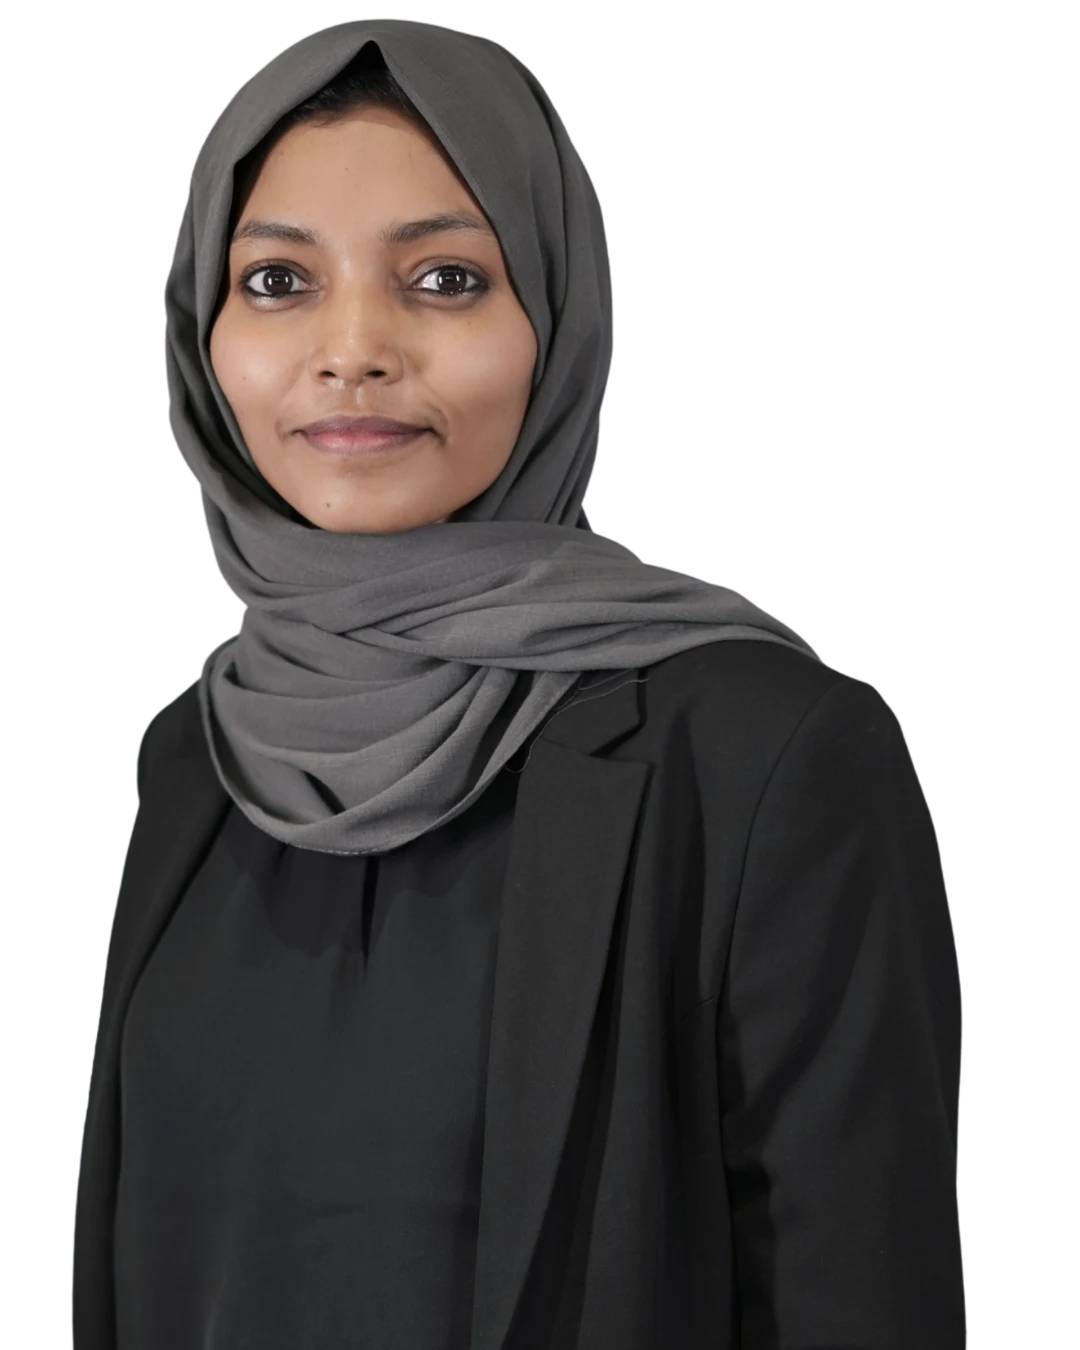
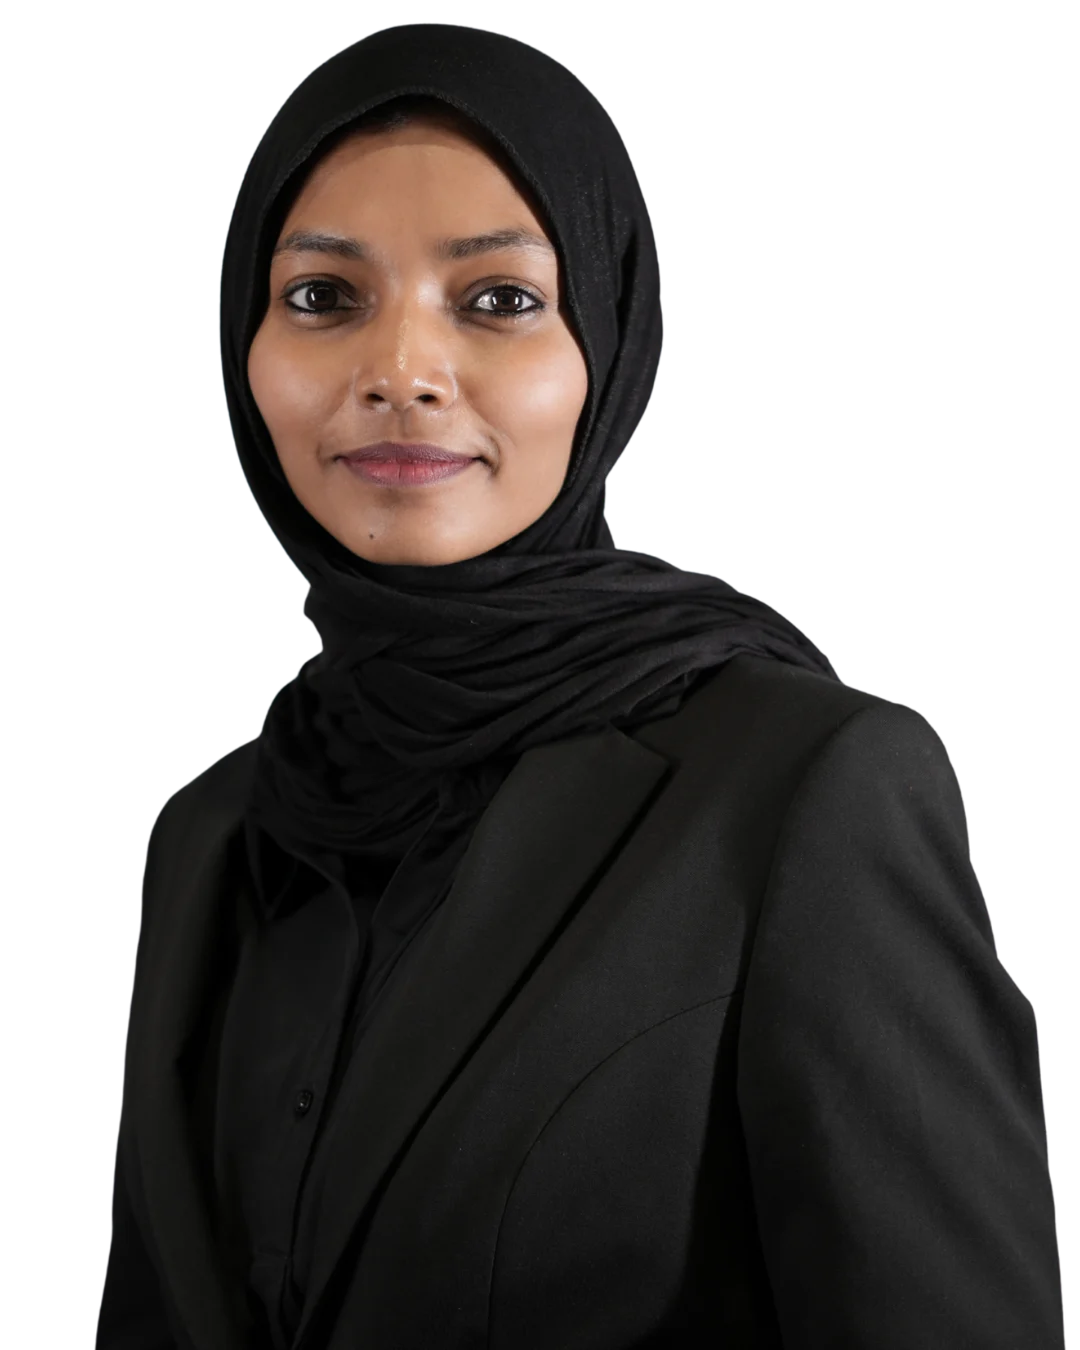
Our Team page completed

diff --git a/src/components/Testimonials.jsx b/src/components/Testimonials.jsx
@@ -1,0 +1,93 @@
+import React, { useEffect, useRef, useState } from "react";
+
+const fetchChannelVideos = async () => {
+  const url = `https://www.googleapis.com/youtube/v3/search?key=${
+    import.meta.env.VITE_YOUTUBE_API_KEY
+  }&channelId=${
+    import.meta.env.VITE_CHANNEL_ID
+  }&part=snippet,id&order=date&maxResults=10`;
+  const response = await fetch(url);
+  const data = await response.json();
+  return data.items.filter((item) => item.id.kind === "youtube#video");
+};
+
+export default function Testimonials() {
+  const [videos, setVideos] = useState([]);
+  const [activeIndex, setActiveIndex] = useState(0);
+  const scrollRef = useRef(null);
+
+  useEffect(() => {
+    fetchChannelVideos().then(setVideos);
+  }, []);
+
+  const scrollToIndex = (index) => {
+    if (!scrollRef.current) return;
+    const container = scrollRef.current;
+    const child = container.children[index];
+    if (child) {
+      child.scrollIntoView({ behavior: "smooth", inline: "start" });
+      setActiveIndex(index);
+    }
+  };
+
+  const handleArrow = (direction) => {
+    let nextIndex = activeIndex + (direction === "right" ? 1 : -1);
+    if (nextIndex < 0) nextIndex = 0;
+    if (nextIndex >= videos.length) nextIndex = videos.length - 1;
+    scrollToIndex(nextIndex);
+  };
+
+  if (videos.length === 0) return null;
+
+  return (
+    <section className="w-full bg-black text-white py-8 relative overflow-hidden">
+      <h2 className="text-xl font-bold mb-4 px-4">Latest Videos</h2>
+
+      {/* Scroll Arrows */}
+      <button
+        onClick={() => handleArrow("left")}
+        className="absolute left-2 top-1/2 -translate-y-1/2 z-10 bg-white text-black p-2 rounded-full"
+      >
+        &#8592;
+      </button>
+      <button
+        onClick={() => handleArrow("right")}
+        className="absolute right-2 top-1/2 -translate-y-1/2 z-10 bg-white text-black p-2 rounded-full"
+      >
+        &#8594;
+      </button>
+
+      <div
+        ref={scrollRef}
+        className="flex gap-4 px-4 overflow-x-hidden overflow-y-hidden snap-x snap-mandatory"
+      >
+        {videos.map((video, index) => (
+          <div
+            key={video.id.videoId}
+            className="snap-start flex-shrink-0 transition-all duration-500"
+            style={{
+              width: index === activeIndex ? "500px" : "250px",
+              height: "300px",
+            }}
+          >
+            <a
+              href={`https://www.youtube.com/watch?v=${video.id.videoId}`}
+              target="_blank"
+              rel="noopener noreferrer"
+              className="block w-full h-full rounded-lg overflow-hidden"
+            >
+              <img
+                src={video.snippet.thumbnails.high.url}
+                alt={video.snippet.title}
+                className="w-full h-full object-cover"
+              />
+            </a>
+            <h3 className="text-sm font-semibold mt-2 line-clamp-2">
+              {video.snippet.title}
+            </h3>
+          </div>
+        ))}
+      </div>
+    </section>
+  );
+}

diff --git a/src/components/YoutubeVideos.jsx b/src/components/YoutubeVideos.jsx
@@ -34,8 +34,18 @@ export default function LatestVideos() {
   const visibleOthers = isMobile ? others.slice(0, 4) : others;
 
   return (
-    <div className="container mx-auto p-4 text-white">
-      <h2 className="text-xl font-bold mb-4">Latest Videos</h2>
+    <div className="container mx-auto p-4 text-white">      
+<div className="flex items-center justify-between my-6">
+  <h2 className="text-xl font-bold">Latest Videos</h2>
+  <a
+    href={`https://www.youtube.com/channel/${import.meta.env.VITE_CHANNEL_ID}?sub_confirmation=1`}
+    target="_blank"
+    rel="noopener noreferrer"
+    className="px-6 py-3 bg-red-600 hover:bg-red-700 text-white font-bold rounded-lg shadow-md transition duration-300"
+  >
+    Subscribe
+  </a>
+</div>
 
       {/* Fullscreen latest video */}
       <div className="mb-6 w-full">
@@ -59,7 +69,7 @@ export default function LatestVideos() {
         {visibleOthers.map((video) => (
           <div
             key={video.id.videoId}
-            className="bg-[#3f0000] rounded-lg shadow overflow-hidden flex flex-col"
+            className="rounded-lg shadow overflow-hidden flex flex-col"
           >
             <a
               href={`https://www.youtube.com/watch?v=${video.id.videoId}`}
@@ -81,6 +91,17 @@ export default function LatestVideos() {
           </div>
         ))}
       </div>
+      <div className="flex justify-center my-6">
+  <a
+    href={`https://www.youtube.com/channel/${import.meta.env.VITE_CHANNEL_ID}?sub_confirmation=1`}
+    target="_blank"
+    rel="noopener noreferrer"
+    className="px-6 py-3 bg-red-600 hover:bg-red-700 text-white font-bold rounded-lg shadow-md transition duration-300"
+  >
+    Subscribe
+  </a>
+</div>
+
     </div>
   );
 }

diff --git a/src/components/TeamSection.jsx b/src/components/TeamSection.jsx
@@ -38,14 +38,21 @@ const teamMembers = [
     hoverImage: "/assets/elizebath.webp",
   },
   {
-    name: "Haridas",
+    name: "Haridas P M",
     link: "#",
     role: "Graphics Designer",
     image: "/assets/haridas pm.webp",
     hoverImage: "/assets/haridas.webp",
   },
   {
-    name: "Afnas",
+    name: "Rimshad M",
+    link: "#",
+    role: "Graphics Designer",
+    image: "/assets/rimshad m.webp",
+    hoverImage: "/assets/rimshad.webp",
+  },
+  {
+    name: "Afnas N",
     link: "#",
     role: "Videographer",
     image: "/assets/afnas n.webp",

diff --git a/src/pages/OurTeam.jsx b/src/pages/OurTeam.jsx
@@ -5,6 +5,7 @@ import { TeamHeader } from '../components/TeamHeader'
 import TeamSection from '../components/TeamSection'
 import HomeMouse from '../components/HomeMouse'
 import LatestVideos from '../components/YoutubeVideos'
+import Testimonials from '../components/Testimonials'
 
 export const OurTeam = () => {
   return (
@@ -14,6 +15,7 @@ export const OurTeam = () => {
         <TeamHeader/>
         <TeamSection/>
         <LatestVideos/>
+        {/* <Testimonials/> */}
         <Footer/>
     </div>
   )